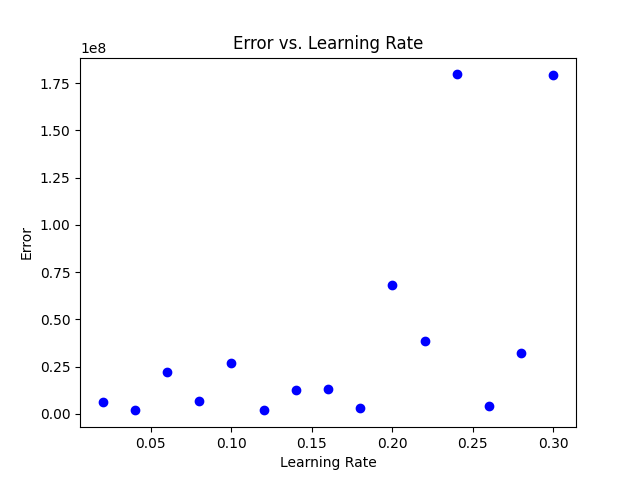
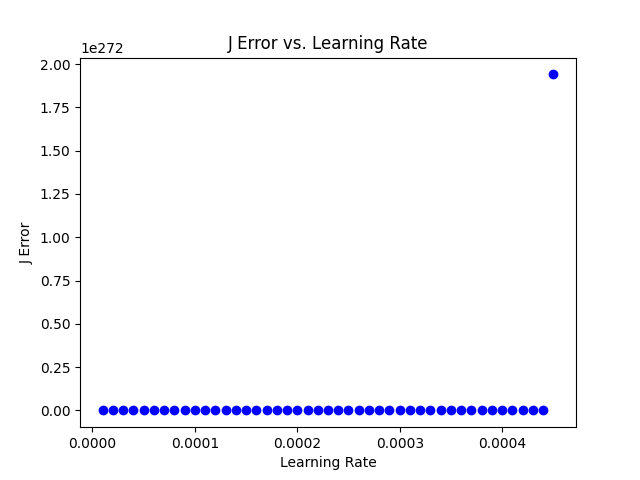
..

diff --git a/Analysis.py b/Analysis.py
@@ -20,7 +20,7 @@ class Analysis:
         start_time = time.time()
         theta = self.reg.stochastic_gd(alpha, singleRun = singleRun)
         result = (self.reg.J(self.reg.X_test_mat, self.reg.Y_test_vec, theta),) + tuple(theta)
-        print("Error: {}".format(result))
+        print("Error: {}".format(result[0]))
         print("Time Elapsed: {} Seconds".format(time.time() - start_time))
         return result
 
@@ -42,6 +42,24 @@ class Analysis:
             plt.ylabel("J Error")
             plt.title("J Error vs. Learning Rate")
             plt.show()
+            #---------------------------------------------------------------------------------------------
+            plt.scatter(error_df["Alpha"][:40], error_df["Error"][:40], **{'color': 'green', 'marker': 'o'})
+            plt.xlabel("Learning Rate")
+            plt.ylabel("J Error")
+            plt.title("J Error vs. Learning Rate")
+            plt.show()
+            # ---------------------------------------------------------------------------------------------
+            plt.scatter(error_df["Alpha"][:30], error_df["Error"][:30], **{'color': 'red', 'marker': 'o'})
+            plt.xlabel("Learning Rate")
+            plt.ylabel("J Error")
+            plt.title("J Error vs. Learning Rate")
+            plt.show()
         return error_df
+
+    def best_param(self, error_df):
+        min_error = error_df["Error"].min()
+        best_row = error_df.loc[lambda df: df["Error"] == min_error].iloc[0]
+        best_row.to_csv("\\".join([os.getcwd(), str(self.data), "{}_Best.csv".format(str(self.data))]))
+        return best_row["Alpha"]
 
 

diff --git a/main.py b/main.py
@@ -10,13 +10,8 @@ def f(i):
     if i == 2:
         D = DataDictionary().dataobject("StudentPerformance")
         A = Analysis(D)
-        A.getErrorDf(alphas = [0.00001 * i for i in range(1, 15 + 1)], singleRun = True, figure = True)
-    if i == 3:
-        D = DataDictionary().dataobject("StudentPerformance")
-        print(D.feats_num)
-        print(D.feats_binary)
-        print(D.feats_cat)
-        print(D.df.head())
+        df = A.getErrorDf(alphas = [0.00001 * i for i in range(1, 50 + 1)], singleRun = True, figure = True)
+        print(A.best_param(df))
 
 if __name__ == '__main__':
     f(2)

diff --git a/Regression.py b/Regression.py
@@ -52,7 +52,7 @@ class Regression:
         start_theta = np.random.rand(1 + len(self.data.feats_enc)) if start_theta is None else start_theta
         theta_update_func = self.theta_update(alpha)
         n = self.X_train_mat.shape[0]
-        index = random.sample(list(self.data.X_train.index), k=n)
+        index = random.sample(range(n), k=n)
         return go(start_theta, 0)
 
     def stochastic_gd(self, alpha, start_theta = None, singleRun = False):
